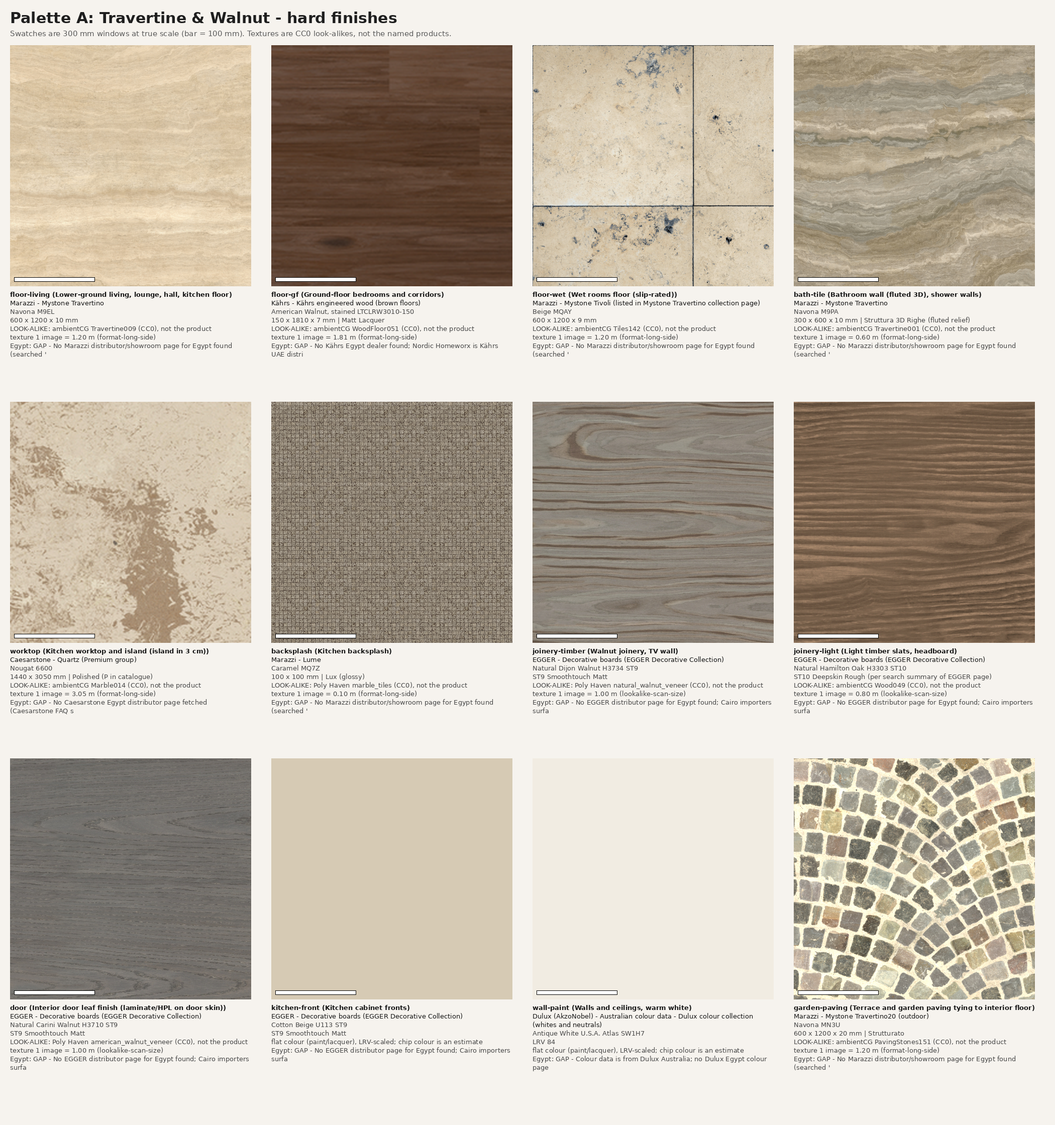
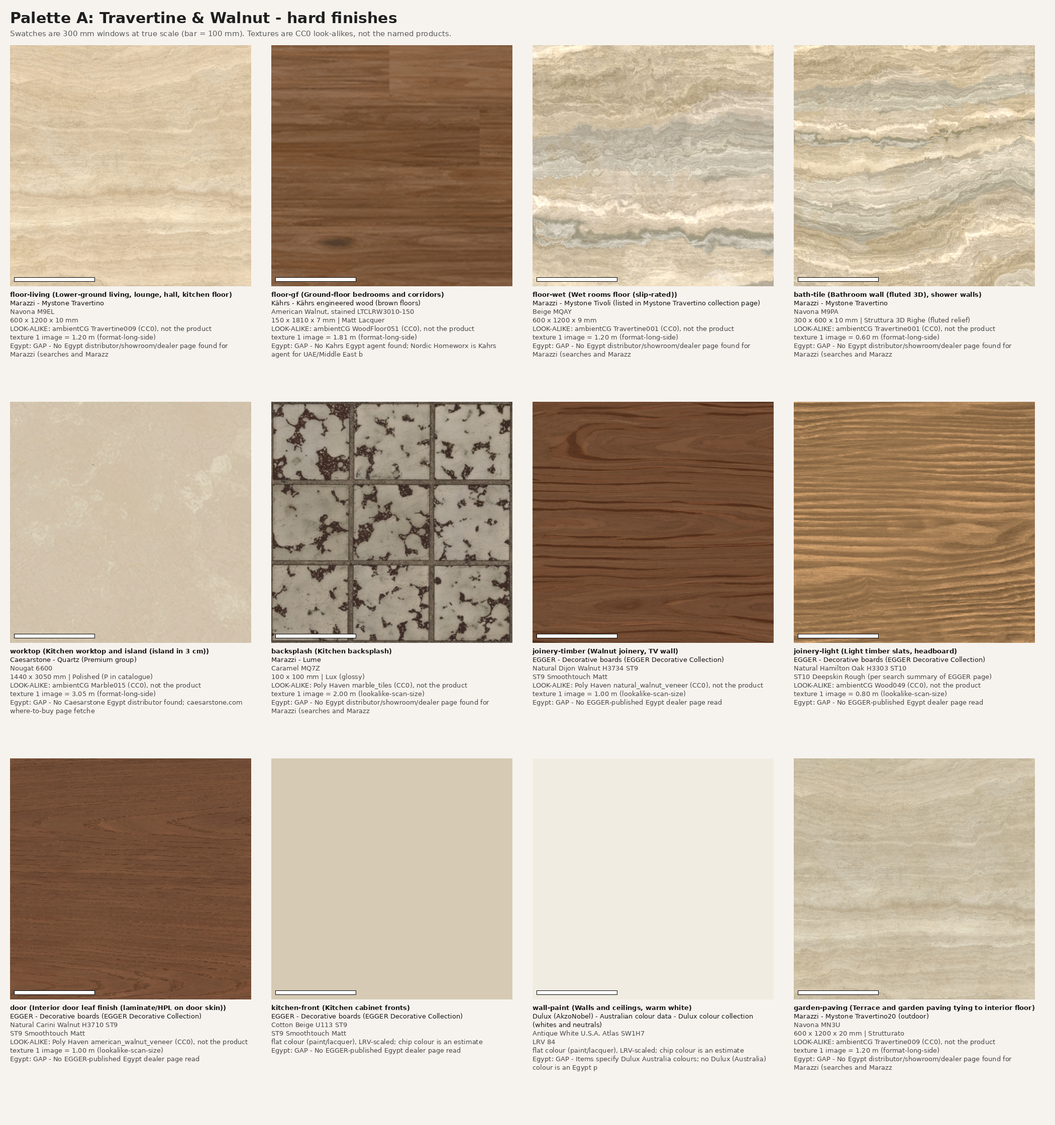
interior: palette boards, look-alikes revised after board review

diff --git a/src/archpipe/interior/board.py b/src/archpipe/interior/board.py
@@ -88,7 +88,7 @@ def label_lines(it: dict) -> list[str]:
         ls.append("flat colour (paint/lacquer), LRV-scaled; chip colour is an estimate" if it.get("slot") in finishes.FLAT_SLOTS
                   else "colour chip: estimate (" + str(it.get("render_hint", "")) + ")")
     eg = it.get("egypt") or {}
-    ls.append("Egypt: " + (eg.get("supplier") or "GAP - " + str(eg.get("gap") or "unknown"))[:70])
+    ls.append("Egypt: " + (eg.get("supplier") or "GAP - " + str(eg.get("gap") or "unknown").split(". ")[0][:80]))
     return [l for l in ls if l.strip()]
 
 
